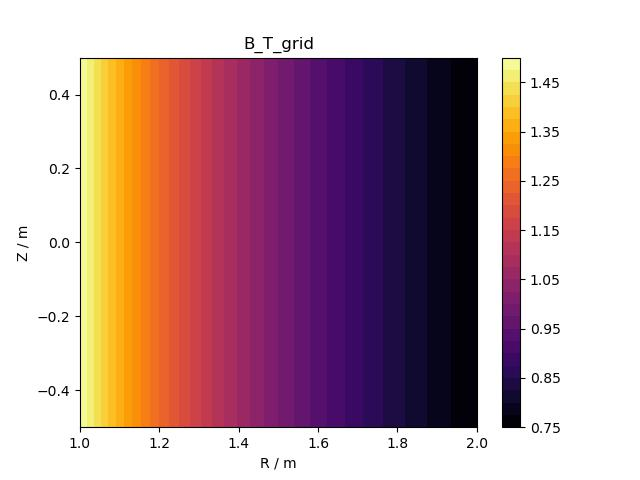
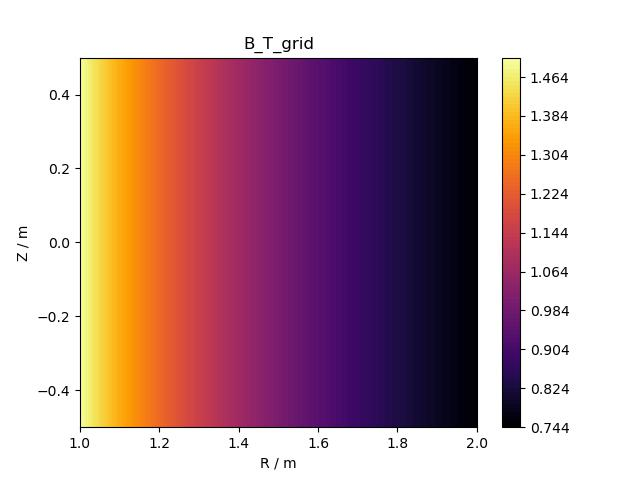
Updated SCOTTY graphs

diff --git a/PlasmaVarPlot.py b/PlasmaVarPlot.py
@@ -70,7 +70,7 @@ def equilcontourplot(GridToPlot, title, filename="NONE", showfig=False, savefig=
     data_R_coord,
     data_Z_coord,
     np.transpose(GridToPlot.reshape(len(data_R_coord), len(data_Z_coord))),
-    levels = 30,
+    levels = 100,
     cmap="inferno",
     )
     plt.xlim(data_R_coord[0], data_R_coord[-1])
